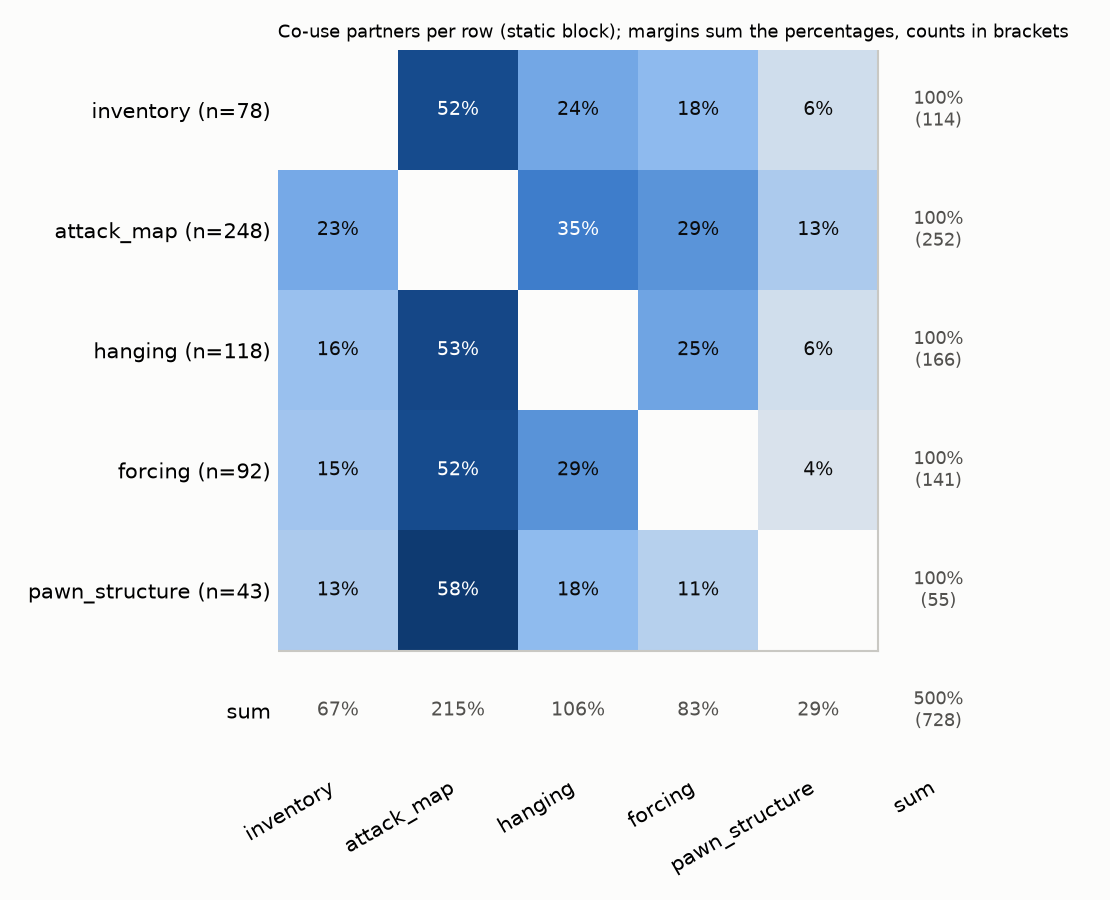
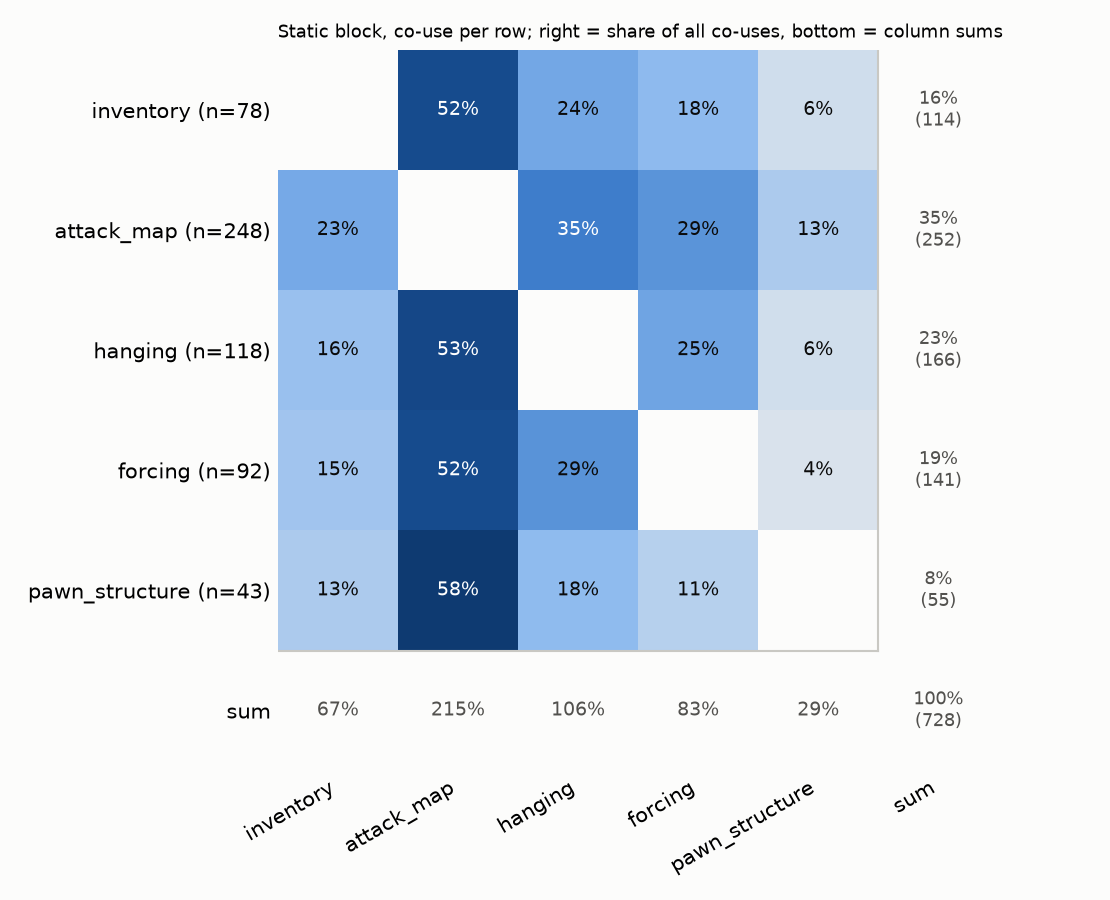
commentary_gen: heat-map right margin as share of all co-uses
Claude-Session: https://claude.ai/code/session_01KQ9zSip1rrnxATMbAETd2e

diff --git a/commentary_gen/charts_static.py b/commentary_gen/charts_static.py
@@ -95,12 +95,12 @@ for a_ in range(n):
     for b_ in range(n):
         if a_ != b_:
             ax.text(b_, a_, f"{P[a_][b_]:.0%}", ha="center", va="center", fontsize=9, color="#ffffff" if P[a_][b_] > 0.33 else "#0b0b0b")
-    ax.text(n, a_, f"100%\n({rowcnt[a_]})", ha="center", va="center", fontsize=8.5, color=INK)
+    ax.text(n, a_, f"{rowcnt[a_]/sum(rowcnt):.0%}\n({rowcnt[a_]})", ha="center", va="center", fontsize=8.5, color=INK)
 for b_ in range(n):
     ax.text(b_, n, f"{colsum[b_]:.0%}", ha="center", va="center", fontsize=9, color=INK)
-ax.text(n, n, f"{sum(colsum):.0%}\n({sum(rowcnt)})", ha="center", va="center", fontsize=8.5, color=INK)
+ax.text(n, n, f"100%\n({sum(rowcnt)})", ha="center", va="center", fontsize=8.5, color=INK)
 ax.plot([-0.5, n - 0.5], [n - 0.5, n - 0.5], color=GRAY, lw=1); ax.plot([n - 0.5, n - 0.5], [-0.5, n - 0.5], color=GRAY, lw=1)
-ax.set_title("Co-use partners per row (static block); margins sum the percentages, counts in brackets", fontsize=8.5, loc="left")
+ax.set_title("Static block, co-use per row; right = share of all co-uses, bottom = column sums", fontsize=8.5, loc="left")
 ax.tick_params(length=0); [s.set_visible(False) for s in ax.spines.values()]
 fig.tight_layout(); fig.savefig("static_tool_cooccurrence_rownorm.png", dpi=150)
 print("ok")

diff --git a/commentary_gen/charts_r5.py b/commentary_gen/charts_r5.py
@@ -95,12 +95,12 @@ for a_ in range(n):
     for b_ in range(n):
         if a_ != b_:
             ax.text(b_, a_, f"{P[a_][b_]:.0%}", ha="center", va="center", fontsize=8, color="#ffffff" if P[a_][b_] > 0.22 else "#0b0b0b")
-    ax.text(n, a_, f"100%\n({rowcnt[a_]})", ha="center", va="center", fontsize=8, color=INK)
+    ax.text(n, a_, f"{rowcnt[a_]/sum(rowcnt):.0%}\n({rowcnt[a_]})", ha="center", va="center", fontsize=8, color=INK)
 for b_ in range(n):
     ax.text(b_, n, f"{colsum[b_]:.0%}", ha="center", va="center", fontsize=8, color=INK)
-ax.text(n, n, f"{sum(colsum):.0%}\n({sum(rowcnt)})", ha="center", va="center", fontsize=8, color=INK)
+ax.text(n, n, f"100%\n({sum(rowcnt)})", ha="center", va="center", fontsize=8, color=INK)
 ax.plot([-0.5, n - 0.5], [n - 0.5, n - 0.5], color=GRAY, lw=1); ax.plot([n - 0.5, n - 0.5], [-0.5, n - 0.5], color=GRAY, lw=1)
-ax.set_title("Tools called together (rows sum to 100%); margins sum the percentages, counts in brackets", fontsize=9, loc="left")
+ax.set_title("Tools called together (rows sum to 100%); right margin = share of all co-uses, bottom = column sums", fontsize=9, loc="left")
 ax.tick_params(length=0); [s.set_visible(False) for s in ax.spines.values()]
 fig.tight_layout(); fig.savefig("tool_cooccurrence_rownorm.png", dpi=150)
 
